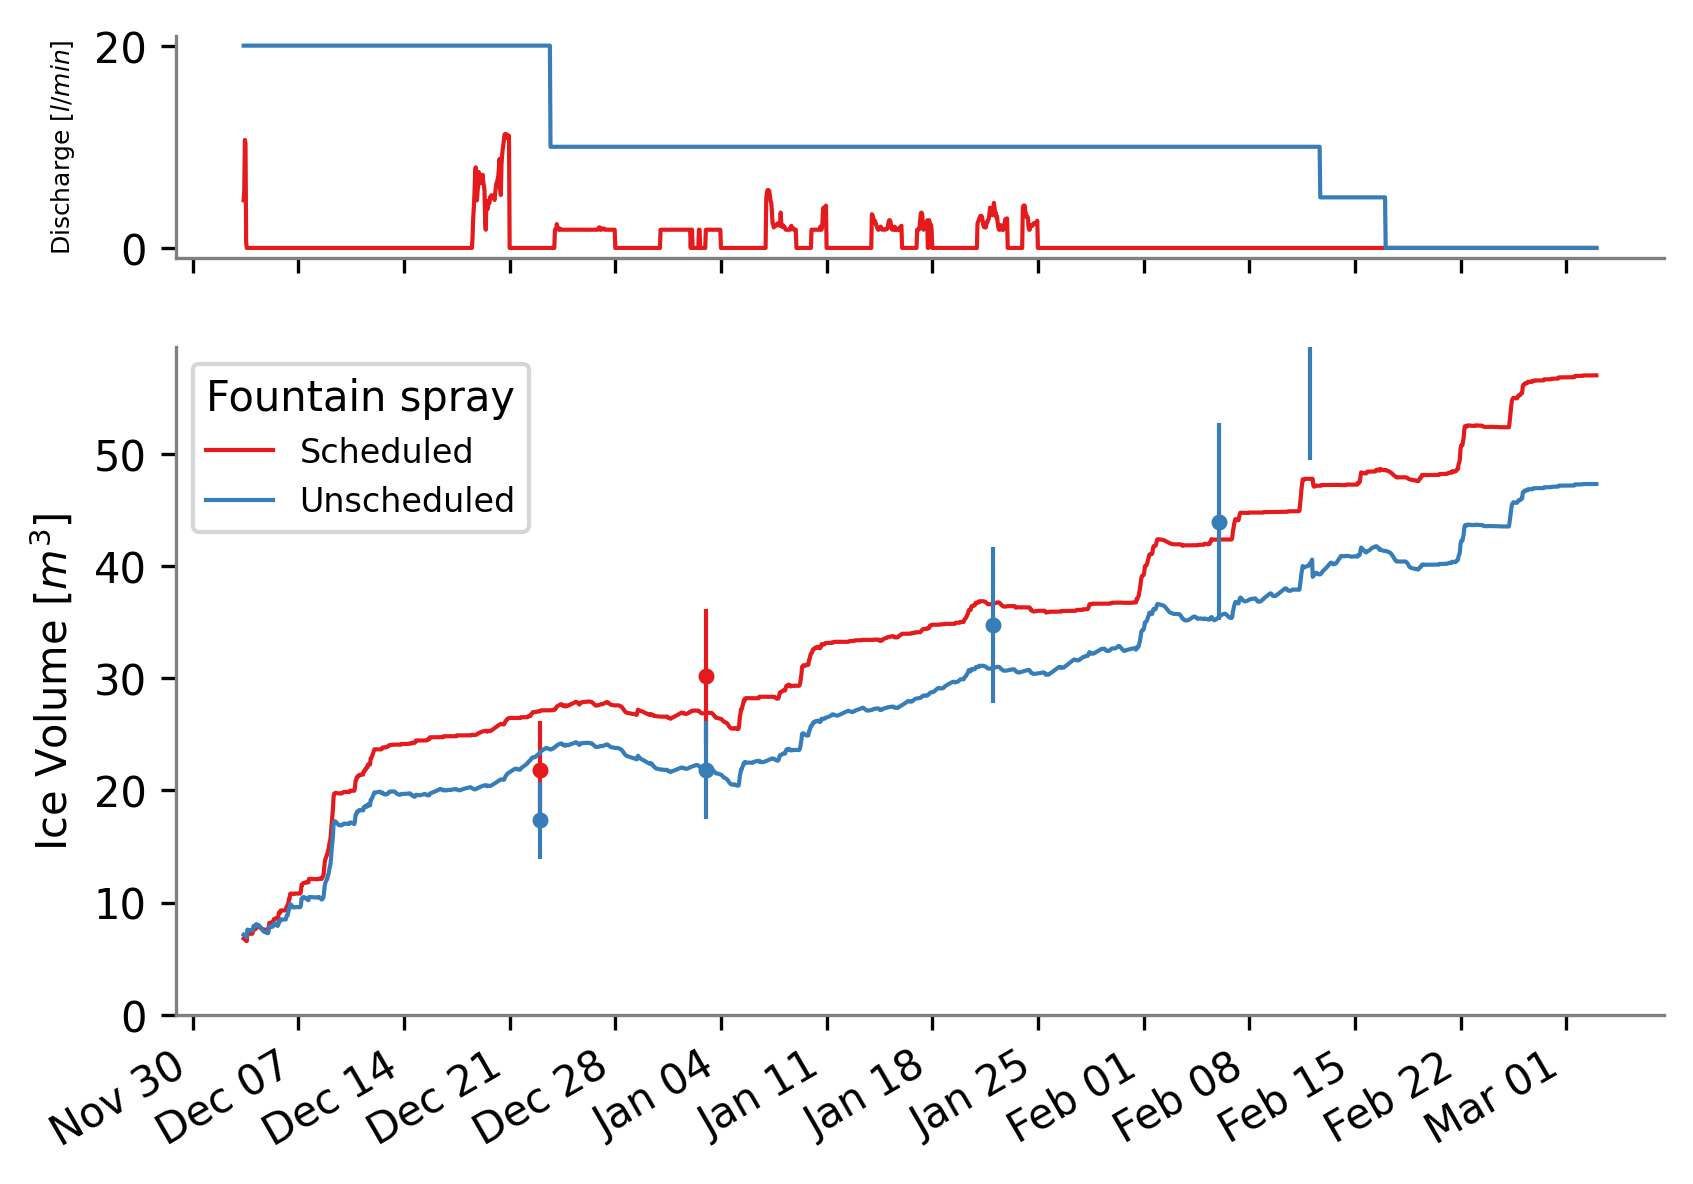
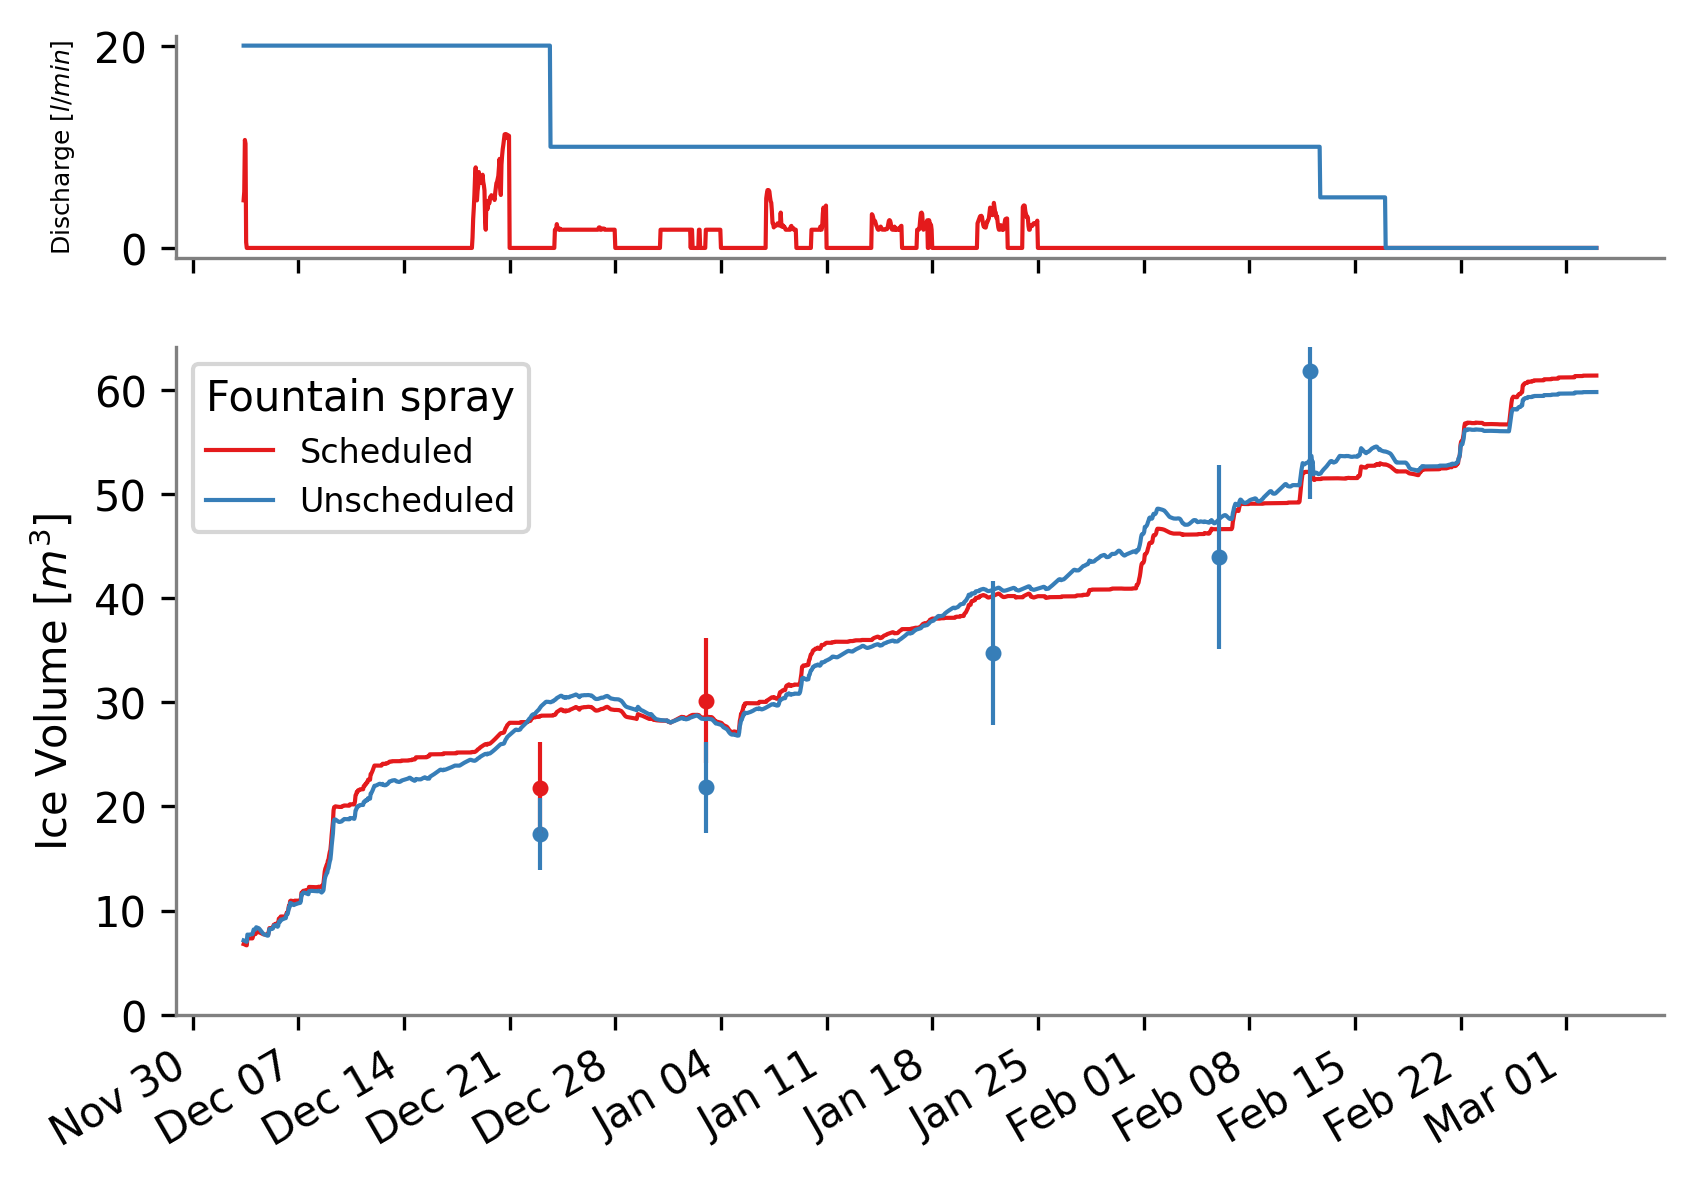
Figures update

diff --git a/tech.tex b/tech.tex
@@ -9,15 +9,16 @@
 \title{Fountain scheduling strategies to improve water use efficiency of artificial
 ice reservoirs (Icestupas)}
 
-\def\Authors{Suryanarayanan Balasubramanian\,$^{1}$, Roger Waser\,$^{2}$, Martin Hoelzle\,$^{1}$}
+\def\Authors{Suryanarayanan Balasubramanian\,$^{1,2}$, Martin Hoelzle\,$^{1}$Roger Waser\,$^{3}$,Martin Von Burg\,$^{3}$,}
 \def\Address{$^{1}$University of Fribourg, Department of Geosciences, Fribourg, Switzerland $^{2}$University of
 Applied Sciences and Arts, Luzern, Switzerland} \def\corrAuthor{Suryanarayanan Balasubramanian}
-\Author[1]{Suryanarayanan}{Balasubramanian}
+\Author[1,2]{Suryanarayanan}{Balasubramanian}
 \Author[1]{Martin}{Hoelzle}
-\Author[2]{Roger}{Waser}
-\Author[2]{Martin}{Von Burg}
+\Author[3]{Roger}{Waser}
+\Author[3]{Martin}{Von Burg}
 \affil[1]{University of Fribourg, Department of Geosciences, Fribourg, Switzerland}
-\affil[2]{University of Applied Sciences and Arts, Luzern, Switzerland}
+\affil[2]{Himalayan Institute of Alternatives, Ladakh, India}
+\affil[3]{University of Applied Sciences and Arts, Luzern, Switzerland}
 
 \correspondence{suryanarayanan.balasubramanian@unifr.ch}
 
@@ -61,9 +62,15 @@ cultivate larger areas or to devote more time to other activities.
 Fountain scheduling methods are one option for reducing watering volumes for AIR construction systems and, at
 the same time, increase water use efficiency. The goal of fountain scheduling is to make the most efficient use
 of water by spraying the right amount of water at the right time, making sure water is available when the AIR
-surface can freeze it. Scheduled fountains may produce higher water use efficiency since they produce lower fountain wastewater.
-Additionally, lower fountain wastewater productions also lowers the melting energy resulting in higher ice
-volumes.
+surface can freeze it. We expect scheduled fountains to produce higher water use efficiency since they produce
+lower fountain wastewater. Additionally, lower fountain wastewater productions also lowers the melting energy
+resulting in higher ice volumes.
+
+However, it is unrealistic to schedule fountains manually due to two reasons. One, constant adjustments of
+discharge rates in response to the significant diurnal and seasonal variations of the freezing rates is
+impractical. Two, frequent pipeline water drainage required to prevent freezing events during scheduled fountain
+disuse intervals is unfeasible. Therefore, fountains can only be scheduled via an automation system that
+regulates fountain discharge rate and drains the pipeline whenever the fountain is unused.
 
 Proper fountain scheduling requires answers to two questions: (a) When should the water be turned on and off?
 (b) How much water should be sprayed? Knowledge of surface freezing rates is important for answering these
@@ -75,15 +82,9 @@ the AIR surface area during the accumulation period. The latter may be defined a
 rate is calculated based on an assumed relationship with weather and location parameters. In order to produce
 recommended discharge rates, empirical models are preferred due to their parsimony in data requirement and
 computational time in comparison with the more sophisticated energy-balance models. But only physical energy
-balance models exist for AIRs. Therefore, we present an empirical model that seeks a balance between model
-complexity and data availablity.
-
-However, it is unrealistic to schedule fountains manually due to two reasons. One, constant adjustments of
-discharge rates in response to the significant diurnal and seasonal variations of the freezing rates is
-impractical. Two, frequent pipeline water drainage required to prevent freezing events during scheduled fountain
-disuse intervals is unfeasible. Therefore, fountains can only be scheduled via an automation system that
-regulates fountain discharge rate via the empirical model and drains the pipeline whenever the fountain is
-unused.
+balance models exist for AIRs. Therefore, we develop an empirical model that seeks a balance between model
+complexity and data availablity in order to produce recommended discharge rates for the automation system
+efficiently.
 
 The main interest in using model results is to simulate fountain schedules relative to various constrains in
 monetary investments, construction duration as well as in water availability. The fountain scheduling strategies
@@ -107,7 +108,7 @@ traditional and an automated construction strategy.
 \end{figure}
 
 In order to compare both the construction strategies, the automated and the traditional AIRs were constructed
-adjacent to each other as shown in in Fig. \ref{fig:2AIR}. This ensured both AIRs shared the same water source
+adjacent to each other as shown in Fig. \ref{fig:2AIR}. This ensured both AIRs shared the same water source
 and similar weather patterns. In addition, a webcam guaranteed a continuous survey of the automated AIR.   
 
 In the traditional strategy, tree branches were laid covering the fountain pipe to initiate the ice formation
@@ -120,7 +121,7 @@ the user interface.
 
 \subsection{Meteorological data}
 Air temperature, relative humidity, wind speed, pressure, longwave, shortwave direct and diffuse radiation are
-required to calculate the surface energy balance of an AIR (see Fig. ). The construction period starts when the
+required to calculate the surface energy balance of an AIR (see Fig. \ref{fig:aws}). The construction period starts when the
 fountain was first switched on and ends when the fountain was last switched off. These two dates are denoted as
 start and fountain off dates henceforth.
 
@@ -130,12 +131,9 @@ start and fountain off dates henceforth.
 \label{fig:aws} 
 \end{figure*}
 
-The primary weather data source was a automatic weather station (AWS) located around 20 meters away as shown in
-Fig. . In addition, we used ERA5 reanalaysis dataset for filling data gaps and adding the shortwave and longwave
-radiation data that were not measured directly. The ERA5 reanalysis dataset is known to have a high correlation
-with sites in Switzerland (). The Guttannen temperature dataset had a correlation greater the ? with the ERA5
-temperature. The ERA5 grid point chosen () for the Guttannen site was around 3.6 km away from the actual site.
-ERA5 variables were fitted to the AWS data via linear regressions. 
+The weather data source was an automatic weather station (AWS) located around 20 meters away as shown in Fig.
+\ref{fig:2AIR}. Less than 0.4 \% of the data was found to be corrupted and these were filled by linear
+interpolation. 
 
 \subsection{Fountain observations}
 
@@ -155,6 +153,39 @@ elevation maps (DEMs) generated from the obtained imagery were analysed to docum
 volume of the ice structures. The number of surveys conducted for the traditional and the automated AIRs were
 ? and ? respectively (see Table). The last drone flight was used to set the dome volume for the traditional AIR.
 The dome volume for the automated AIR was zero.  The remaining surveys were used for model validation.
+
+\begin{table}
+	\centering
+	\caption{ Summary of the drone surveys}
+	\label{tab:uav}
+	\begin{tabular}{@{}|llllll|@{}}
+		\toprule
+		\textbf{}              & \textbf{No.} & \textbf{Date} & \textbf{Volume} & \textbf{Radius} & \textbf{Surface Area} \\ \midrule
+		\multicolumn{1}{|l|}{\multirow{6}{*}{\rotatebox[origin=c]{90}{Traditional}}}
+		                       & 1            & Dec 23, 2021  & 17 $m^{3}$     & 2.9 $m$
+		                       & 47 $m^{2}$                                                                      \\
+		\multicolumn{1}{|l|}{} & 2            & Jan 3, 2022  & 22 $m^{3}$     & 3.4 $m$
+		                       & 61 $m^{2}$                                                                      \\
+		\multicolumn{1}{|l|}{} & 3            & Jan 22, 2022   & 626 $m^{3}$     & 4 $m$
+		                       & 79 $m^{2}$                                                                      \\
+		\multicolumn{1}{|l|}{} & 4            & Feb 6, 2022  & 44 $m^{3}$     & 4.2 $m$
+		                       & 86 $m^{2}$                                                                      \\
+		\multicolumn{1}{|l|}{} & 5            & Feb 12, 2022  & 62 $m^{3}$     & 4.2 $m$
+		                       & 108 $m^{2}$                                                                      \\
+		\multicolumn{1}{|l|}{} & 6            & Apr 3, 2021   & 620 $m^{3}$     & 10.1 $m$
+		                       & 658 $m^{2}$
+		\\\midrule
+		\multicolumn{1}{|l|}{\multirow{3}{*}{\rotatebox[origin=c]{90}{Automatic}}}
+		                       & 1            & Dec 23, 2021  & 22 $m^{3}$      & 3.7 $m$
+		                       & 57 $m^{2}$                                                                       \\
+		\multicolumn{1}{|l|}{} & 2            & Jan 3, 2022   & 30 $m^{3}$      & 3.9 $m$
+		                       & 66 $m^{2}$                                                                       \\
+		\multicolumn{1}{|l|}{} & 3            &               &    $m^{3}$      &     $m$
+		                       &    $m^{2}$                                                                       \\
+		\bottomrule
+	\end{tabular}
+
+\end{table}
 
 \subsection{Bulk temperature measurements}
 
@@ -300,11 +331,11 @@ predictor than the model itself.
 In this paper, an automated AIR construction strategy is presented and compared with a traditional strategy
 using data collected in Guttannen, Switzerland.
 
-The main purpose of this study was to test the idea that scheduling AIR fountain systems could lead to a
-significant improvement in water use efficiency and ice volumes. An empirical model compatible with the limited
-data availability of any new location and limited computational power of the automation system was used to
-produce recommended discharge rate. Nevertheless, this model was able to capture 90 \% of the freezing rate
-variations produced by the physically based model.
+The main purpose of this study was to test the idea that scheduled AIR fountains could lead to a significant
+improvement in water use efficiency and ice volumes. An empirical model compatible with the limited data
+availability of any new location and limited computational power of the automation system was used to produce
+recommended discharge rate. Nevertheless, this model was able to capture 90 \% of the freezing rate variations
+produced by the physically based model.
 
 The automation system allows the easy handling of fountain scheduling implementation. The possibility for
 changing the coefficients of the empirical model directly in the user interface allows tailoring the fountain
@@ -438,7 +469,23 @@ Hence, the $\mu_{cone}$ parameter takes values of 1.5 and 1 for the iceV and WUE
 turbulent fluxes impact both the freezing and the melting rates, this assumption may not favor the corresponding
 objectives for certain sites.
 
-\noappendix       %% use this to mark the end of the appendix section. Otherwise the figures might be numbered incorrectly (e.g. 10 instead of 1).
+\subsection{Model Update}
+Besides the assumptions, the calculation of the fountain discharge heat flux was also updated. This update helps the
+model better estimate the water temperature of the fontain droplets. In the previous model version, this water
+temperature was assumed to be constant at 1.5 C. However, in reality, the water temperature depends on the
+ambient air temperature. Under subzero conditions, the water droplets are likely to cool to 0 C duting their
+flight time. Therefore, the fountain water temperature was instead determined as follows:
+
+\begin{equation}
+	T_{F} = \left\{ \begin{array}{ll}
+		0 & \textit{ if } T_{temp} < 0 \\
+		T_{G} & \textit{ otherwise}
+	\end{array} \right.
+\end{equation}
+
+where $T_{G}$ is the measured or estimated ground temperature.
+
+\noappendix 
 
 \bibliographystyle{copernicus}
 \bibliography{zot_refs.bib}
